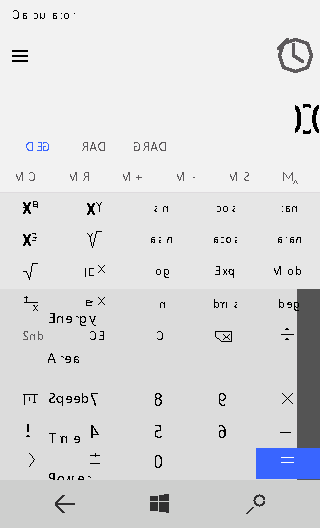
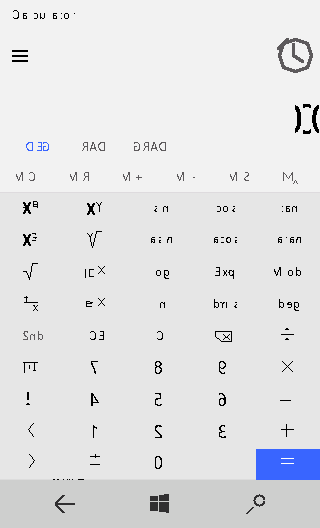
calc: regenerate the 6 sci frames from a clean build — the committed set predated the final sci.xml row fix (a stale sheet covered the keypad); fresh run is deterministic (bit-identical across two clean rebuilds) and passes all 21 probes; ascii_frame.py sys.path fix (tools/ is 2 levels below root)

diff --git a/calc/tools/ascii_frame.py b/calc/tools/ascii_frame.py
@@ -4,7 +4,7 @@ the layout can be inspected without a vision model."""
 import sys
 import os
 
-sys.path.insert(0, os.path.join(os.path.dirname(__file__), '..', '..', '..',
+sys.path.insert(0, os.path.join(os.path.dirname(__file__), '..', '..',
                                 'edge', 'ntos_linux', 'tests'))
 from check_shots import read_png
 
